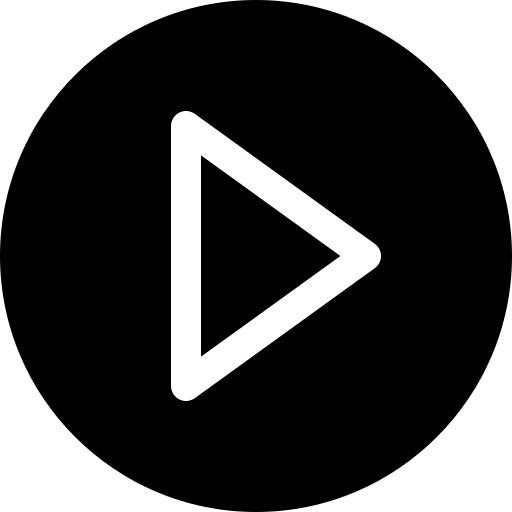
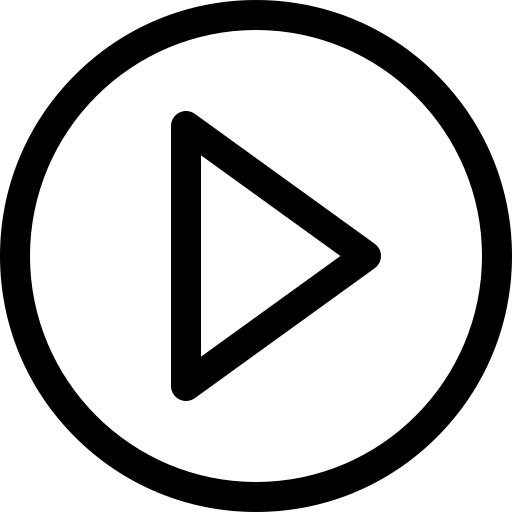
volume control added

diff --git a/src/main/index.js b/src/main/index.js
@@ -28,6 +28,8 @@ const Main = () => {
   const [name, setName] = useState('');
   const [endGame, setEndGame] = useState(false);
   const [guesses, setGuesses] = useState(0);
+  const [audio, setAudio] = useState(pause);
+  const [isAudioOn, setIsAudioOn] = useState(true);
   const { loading, error, data } = useQuery(API_REQUEST);
   if (loading) return <p>Loading...</p>;
   if (error) return <p>Error :(</p>;
@@ -68,12 +70,21 @@ const Main = () => {
     setEndGame(true);
   }
 
+  const handleAudio = () => {
+    if (audio === pause) {
+      setAudio(play);
+      setIsAudioOn(false);
+    } else {
+      setAudio(pause);
+      setIsAudioOn(true);
+    }
+  }
   return(
     <div className='main-container'>
-      <Navbar name={name} />
+      <Navbar name={name} audio={audio} handleAudio={handleAudio}/>
       { name === ''
       ? <Login handleStart={handleStart} />
-      : <Game cards={gameCards} handleEnd={handleEnd} /> }
+      : <Game cards={gameCards} handleEnd={handleEnd} audio={isAudioOn}/> }
       { endGame ? <EndGame guesses={guesses} /> : null }
     </div>
   );

diff --git a/src/game/index.js b/src/game/index.js
@@ -4,7 +4,7 @@ import Cards from '../cards';
 import sound from '../sounds/zoo.mp3';
 
 const Game = (props) => {
-  const { cards, handleEnd } = props;
+  const { cards, handleEnd, audio } = props;
   const [newCards, setNewCards] = useState(cards);
   const [cardSelected, setCardSelected] = useState({id: null, key: null});
   const [update, setUpdate] = useState(0);
@@ -57,12 +57,18 @@ const Game = (props) => {
     }
   };
 
-  let play = Sound.status.PLAYING;
+  let play;
 
   if (cardsLeft === 0) {
     setTimeout(() => handleEnd(guesses), 1000);
-    play = Sound.status.STOPPED;
   }
+
+  if (audio === true) {
+    play = Sound.status.PLAYING; 
+  } else {
+    play = Sound.status.PAUSED;
+  }
+  console.log("aksdgaskjdhgskjdgalkjg", audio)
 
     return(
     <div className='container'>

diff --git a/src/navbar/index.js b/src/navbar/index.js
@@ -3,10 +3,12 @@ import React from 'react';
 import './navbar.css';
 
 const Navbar = (props) => {
-    const { name, audio } = props;
+    const { name, audio, handleAudio } = props;
     return (
         <div className='navbar'>
-            <div className='hidden'><img src={audio} alt='volume control' /></div>
+            <div onClick={() => {handleAudio()}}>
+                <img src={audio} alt='volume control' className='audio' / >
+            </div>
             <div className='title'><h1>NIGHT ZOOKEEPER</h1></div>
             <div className='name'><h1>Player: {name}</h1></div>
         </div>

diff --git a/src/navbar/navbar.css b/src/navbar/navbar.css
@@ -18,13 +18,24 @@
     letter-spacing: 1px;
 }
 
-.hidden {
-    visibility: hidden;
-    margin-left: 10%;
+.audio {
+    width: 40px;
+    height: 40px;
+    margin: 10px 0 0 20px;
+    /* background-color: white; */
+    border-radius: 50px;
+    cursor: pointer;
 }
 
 @media only screen and (max-width: 600px) {
     .navbar {
         font-size: 6px;
+    }
+    .audio {
+        width: 20px;
+        height: 20px;
+        margin: 5px 0 0 10px;
+        background-color: #2779b4;
+        border-radius: 50px;
     }
 }
